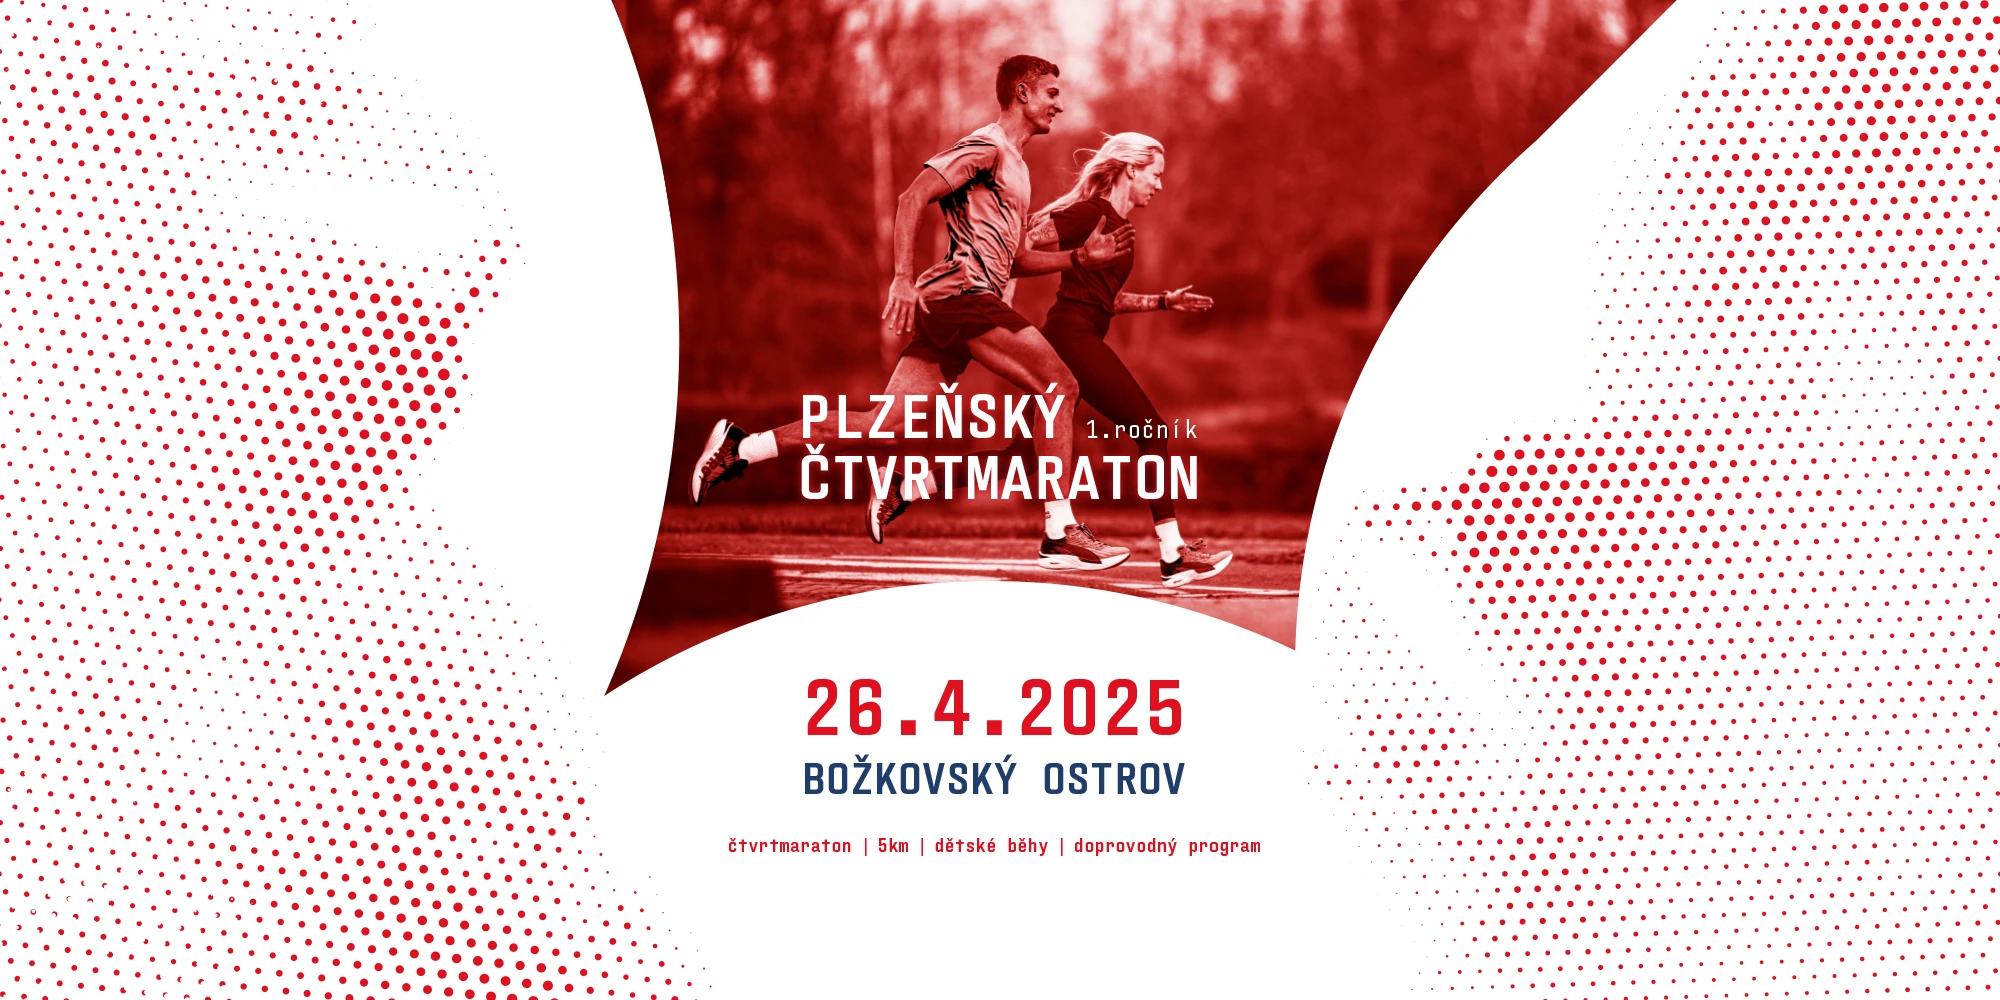
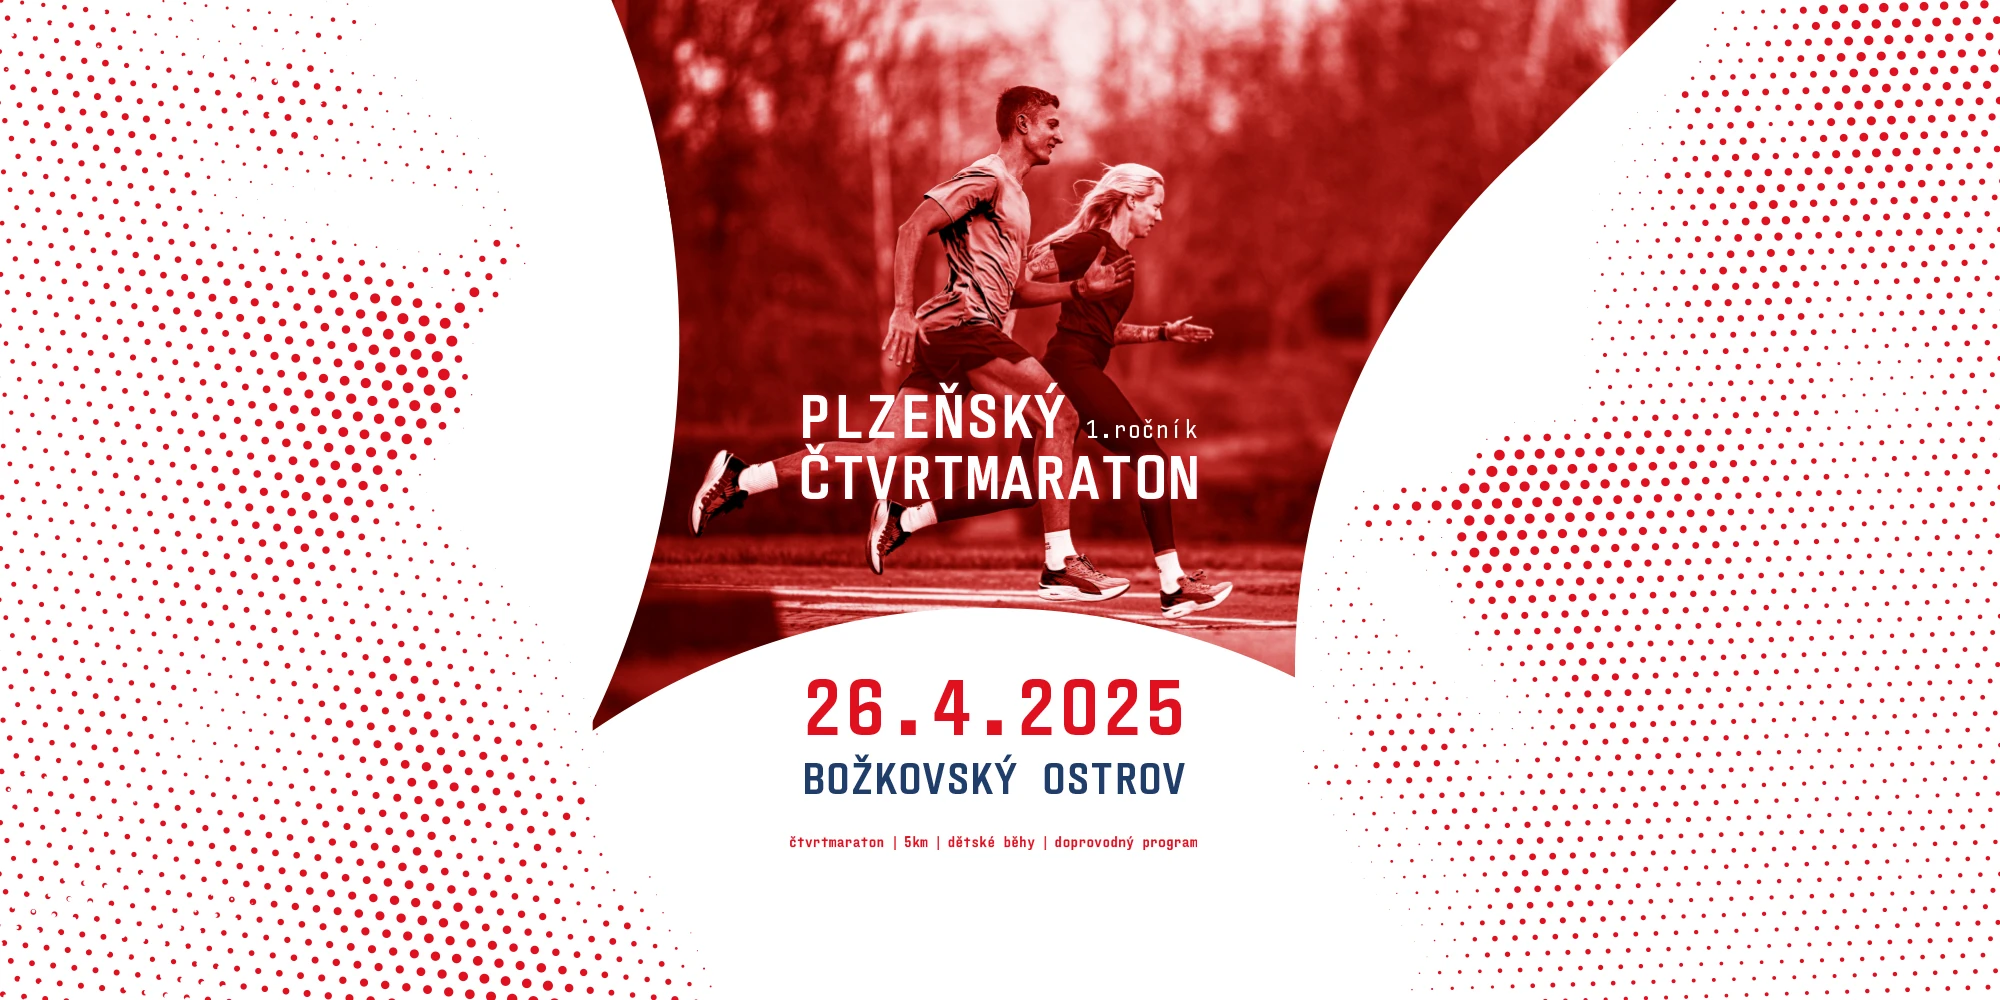
Výměna hlavičky a přidání partnera

Changed region(s): [[0.279, 0.0, 0.837, 0.744], [0.372, 0.837, 0.62, 0.868], [0.713, 0.186, 0.744, 0.217]]

diff --git a/index.html b/index.html
@@ -516,7 +516,9 @@
 				</a>
 			</div>
 			<div class="w3-col s12 m6 l3">
-				&nbsp;
+				<a target="_blank" href="https://www.namakanej.cz" rel="nofollow">
+					<img src="img/partneri/namakanejLogo.webp" alt="Namakanej Fitness Shop Logo" class="w3-image w3-hover-opacity">
+				</a>
 			</div>
 		</div>
 
